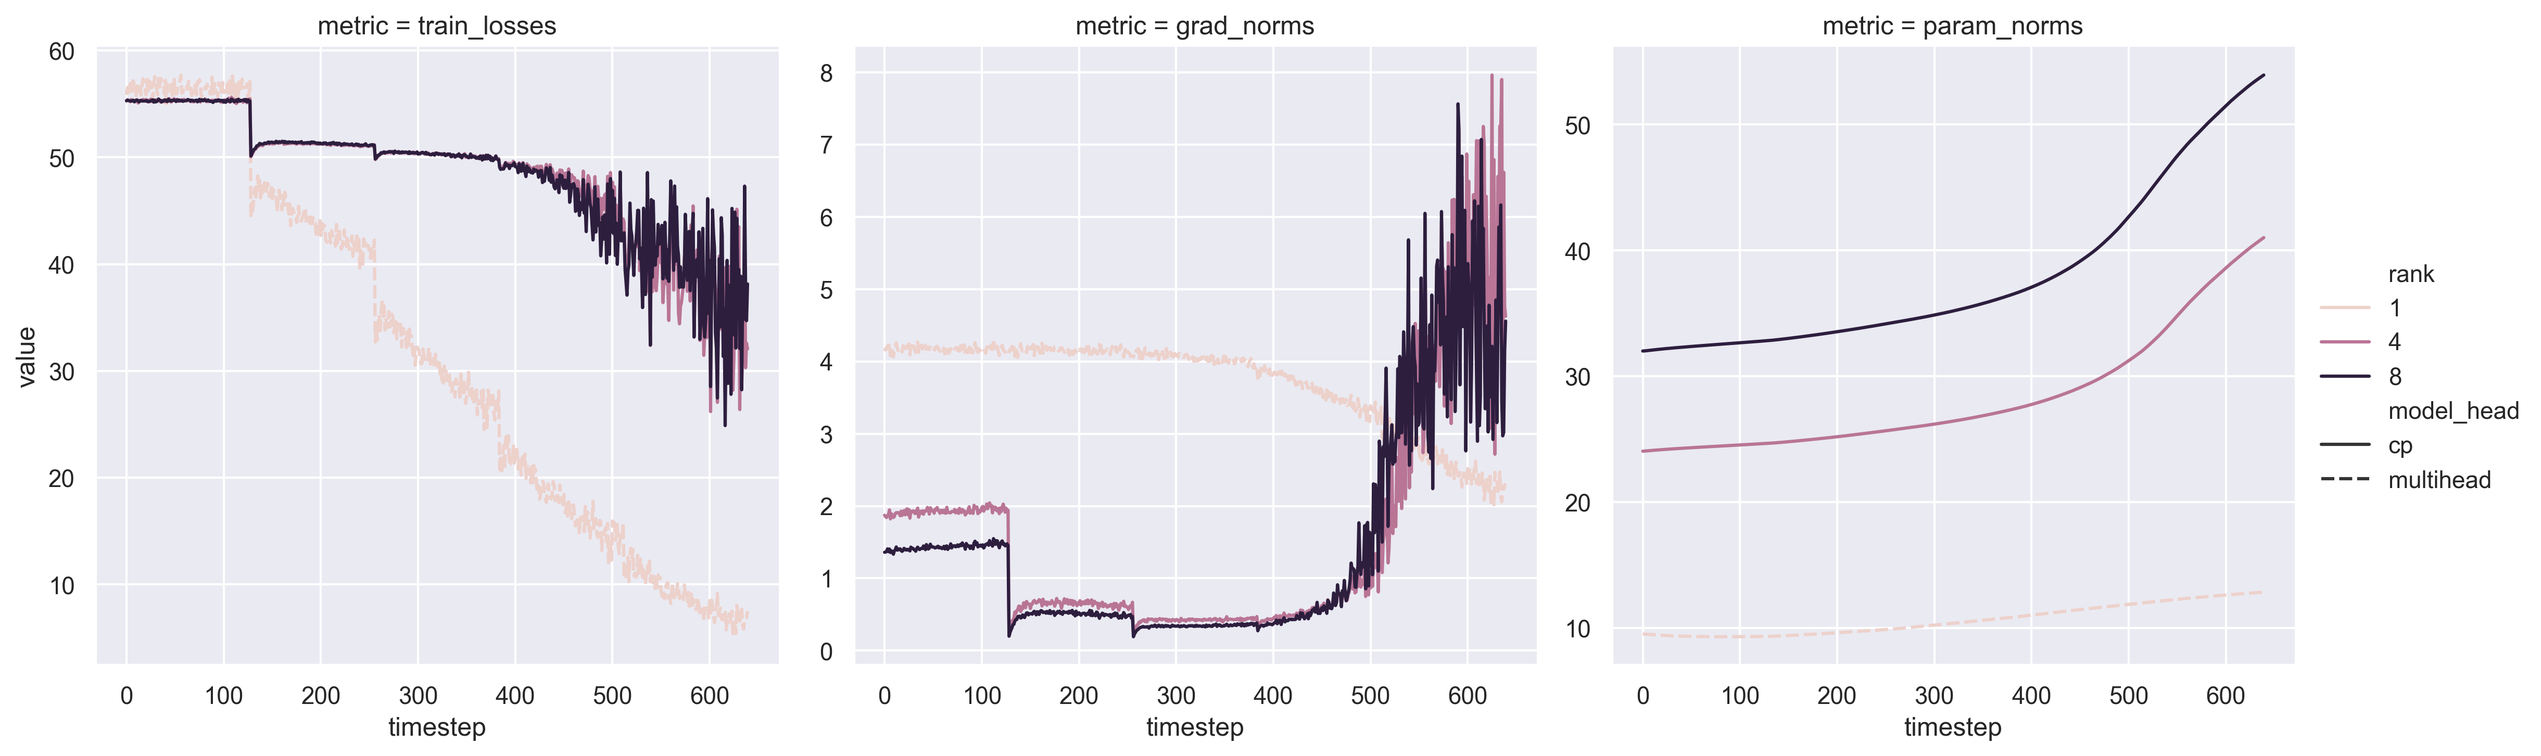
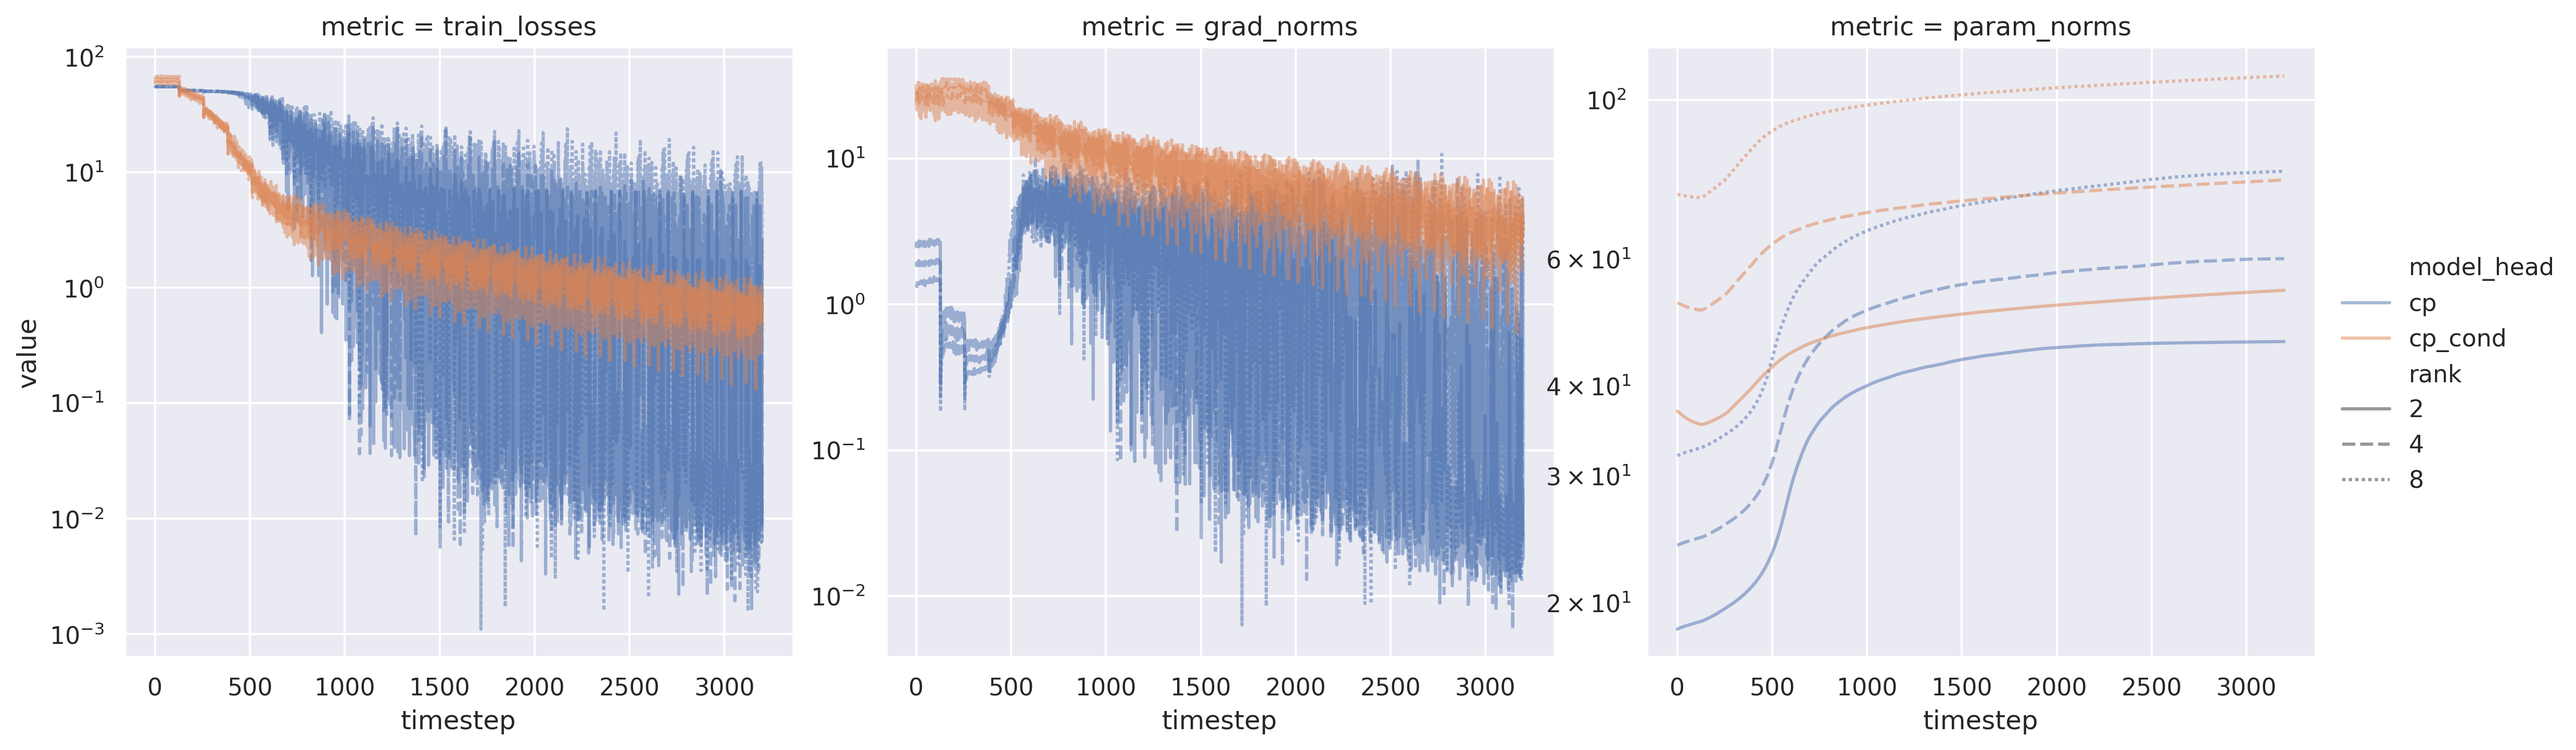
Add mhead stability plots

diff --git a/dataloaders/countdown.py b/dataloaders/countdown.py
@@ -1,0 +1,178 @@
+from dataloaders.base import AbstractDataset
+from datasets import load_dataset, DatasetDict, Dataset
+import random
+
+
+class Countdown(AbstractDataset):
+    templates = {
+        "0_shot": """[QUESTION]\n{question}\n[ANSWER]{answer}""",
+        "few_shot": (
+            "You are a helpful assistant that solves countdown problems. "
+            "The final answer should be preceeded by ####.\n"
+            "Here is an example:\n"
+            "[QUESTION]\n"
+            "Count down from 10 to 1. What is the 3rd number in this sequence?\n"
+            "[ANSWER]\n"
+            "Counting down from 10: 10, 9, 8, 7, 6, 5, 4, 3, 2, 1\n"
+            "The 3rd number in this countdown sequence is 8. #### 8\n"
+            "Now, answer the following question:\n"
+            "[QUESTION]\n"
+            "{question}\n"
+            "[ANSWER]\n"
+            "{answer}"
+        ),
+        "few_shot:standard": (
+            "You are a helpful assistant that solves countdown problems. "
+            "The final answer should be preceeded by ####.\n"
+            "Here is an example:\n"
+            "[QUESTION]\n"
+            "Count down from 10 to 1. What is the 3rd number in this sequence?\n"
+            "[ANSWER]\n"
+            "The 3rd number in the countdown sequence is 8. #### 8\n"
+            "Now, answer the following question:\n"
+            "[QUESTION]\n"
+            "{question}\n"
+            "[ANSWER]\n"
+            "{answer}"
+        ),
+    }
+
+    def __init__(self, *args, **kwargs):
+        super().__init__(*args, **kwargs)
+
+    def parse_answer(self, generation: str) -> float:
+        try:
+            return (
+                float(
+                    generation.split("####")[-1]
+                    .split(self.eos)[0]
+                    .strip()
+                    .split(" ")[0]
+                    .split("\n")[0]
+                )
+                if "####" in generation
+                else float("nan")
+            )
+        except Exception as e:
+            return float("nan")
+
+    def get_sample_prompt(self) -> str:
+        return self.templates[self.template_mode].format(
+            question="Count down from 15 to 1. What is the 5th number in this sequence?",
+            answer="",
+        )
+
+    def format_train_example(self, example):
+        return (
+            self.templates[self.template_mode].format(
+                question=example["question"],
+                answer=example["answer"],
+            )
+            + self.eos
+        )
+
+    def format_test_example(self, example):
+        return self.templates[self.template_mode].format(
+            question=example["question"],
+            answer="",
+        )
+
+    def format_test_label(self, example):
+        return self.parse_answer(example["answer"])
+
+    def _generate_countdown_problem(self, start_num, target_position):
+        """Generate a countdown problem with given start number and target position."""
+        if target_position > start_num:
+            return None, None
+
+        # Generate the countdown sequence
+        sequence = list(range(start_num, 0, -1))
+        target_number = sequence[target_position - 1]  # Convert to 0-indexed
+
+        question = f"Count down from {start_num} to 1. What is the {target_position}{self._get_ordinal_suffix(target_position)} number in this sequence?"
+        answer = f"Counting down from {start_num}: {', '.join(map(str, sequence))}\nThe {target_position}{self._get_ordinal_suffix(target_position)} number in this countdown sequence is {target_number}. #### {target_number}"
+
+        return question, answer
+
+    def _get_ordinal_suffix(self, n):
+        """Get the ordinal suffix for a number."""
+        if 10 <= n % 100 <= 20:
+            suffix = "th"
+        else:
+            suffix = {1: "st", 2: "nd", 3: "rd"}.get(n % 10, "th")
+        return suffix
+
+    def _generate_dataset_examples(self, num_examples, split="train"):
+        """Generate synthetic countdown problems."""
+        for i in range(num_examples):
+            # Vary difficulty based on split
+            if split == "train":
+                start_num = random.randint(5, 50)
+                target_position = random.randint(1, min(start_num, 10))
+            elif split == "eval":
+                start_num = random.randint(10, 30)
+                target_position = random.randint(1, min(start_num, 8))
+            else:  # test
+                start_num = random.randint(15, 40)
+                target_position = random.randint(1, min(start_num, 12))
+
+            question, answer = self._generate_countdown_problem(
+                start_num, target_position
+            )
+            if question and answer:
+                yield {
+                    "question": question,
+                    "answer": answer,
+                    "start_num": start_num,
+                    "target_position": target_position,
+                    "target_number": start_num - target_position + 1,
+                }
+
+    def load_raw_data(self):
+        # Generate synthetic countdown problems since reasoning-gym dataset might not be available
+        num_train = 5000
+        num_eval = 500
+        num_test = 500
+
+        # Create datasets using Dataset.from_generator pattern like STemp
+        base_datasets = {
+            "train": Dataset.from_generator(
+                lambda: self._generate_dataset_examples(num_train, "train")
+            ),
+            "eval": Dataset.from_generator(
+                lambda: self._generate_dataset_examples(num_eval, "eval")
+            ),
+        }
+        test_datasets = {
+            "test": Dataset.from_generator(
+                lambda: self._generate_dataset_examples(num_test, "test")
+            ),
+        }
+
+        for split in base_datasets:
+            base_datasets[split] = self._process_train_dataset(
+                base_datasets[split], self.tokenizer
+            )
+        for split in test_datasets:
+            test_datasets[split] = self._process_test_dataset(
+                test_datasets[split], self.tokenizer
+            )
+
+        return DatasetDict({**base_datasets, **test_datasets})
+
+
+if __name__ == "__main__":
+    from transformers import AutoTokenizer
+
+    tokenizer = AutoTokenizer.from_pretrained("gpt2")
+    tokenizer.pad_token = tokenizer.eos_token
+
+    countdown = Countdown(tokenizer, max_num_samples=100).load_data()
+    print(countdown)
+
+    # Print a sample from the dataset
+    print("Train example:")
+    print(tokenizer.decode(countdown["train"][0]["input_ids"]))
+
+    print("Test example:")
+    print(tokenizer.decode(countdown["test"][0]["input_ids"]))

diff --git a/scripts/plot_mhead_stability.py b/scripts/plot_mhead_stability.py
@@ -50,7 +50,7 @@ def main():
     p = argparse.ArgumentParser()
     p.add_argument("--batch_size", type=int, default=8)
     p.add_argument("--lr", type=float, default=5e-4)
-    p.add_argument("--epochs", type=int, default=5)
+    p.add_argument("--epochs", type=int, default=25)
     p.add_argument("--n_samples", type=int, default=1024)
     args = p.parse_args()
 
@@ -65,7 +65,7 @@ def main():
     # create experiment configs
     configs = []
     # add cp configs
-    for model_head, rank in itertools.product(["cp", "cp_cond"], range_exp(2, 8)):
+    for model_head, rank in itertools.product(["cp", "cp_cond"], range_exp(1, 4)):
         configs.append(
             {
                 "model_head": model_head,
@@ -77,14 +77,23 @@ def main():
             }
         )
 
-    # add multihead config
-    configs.append(
-        {
-            "model_head": "multihead",
-            "model_head_kwargs": {**model_hparams},
-            "rank": 1,
-        }
-    )
+    # # add multihead config
+    # configs.append(
+    #     {
+    #         "model_head": "multihead",
+    #         "model_head_kwargs": {**model_hparams},
+    #         "rank": 1,
+    #     }
+    # )
+
+    # # add dummy dist
+    # configs.append(
+    #     {
+    #         "model_head": "dummy",
+    #         "model_head_kwargs": {**model_hparams},
+    #         "rank": 1,
+    #     }
+    # )
 
     # create synthetic data
     train_ds = torch.utils.data.TensorDataset(
@@ -95,7 +104,7 @@ def main():
     )
     train_dl = torch.utils.data.DataLoader(train_ds, batch_size=args.batch_size)
 
-    for config in configs:
+    for config in tqdm(configs, desc="Computing stats"):
         train_stats = run_train(
             model=TJD_DISTS[config["model_head"]](
                 BaseDistConfig(**config["model_head_kwargs"])
@@ -124,16 +133,19 @@ def main():
         var_name="metric",  # new col → facet
         value_name="value",  # y‑axis
     )
-    sns.relplot(
+    g = sns.relplot(
         data=long,
         x="timestep",
         y="value",
-        hue="rank",
-        style="model_head",
+        hue="model_head",
+        style="rank",
         col="metric",  # facet by metric (use row='metric' if you prefer)
         kind="line",
         facet_kws=dict(sharey=False),  # separate y‑scales (optional)
+        alpha=0.5,
     )
+    for ax in g.axes.flat:
+        ax.set_yscale("log")  # or "log", "symlog", etc.
     plt.savefig("results/plots/mhead_stability.png", dpi=300, bbox_inches="tight")
 
 

diff --git a/tjdnet/distributions/dummy.py b/tjdnet/distributions/dummy.py
@@ -1,0 +1,35 @@
+from typing import Callable, List, Optional
+import torch
+import torch.nn as nn
+
+from tjdnet.distributions._base import AbstractDist, BaseDistFromLinearConfig
+from tjdnet.distributions._tjdist import BaseDistConfig
+
+
+class DummyDist(AbstractDist):
+    """Dummy distribution for testing."""
+
+    def __init__(self, config: BaseDistConfig):
+        super().__init__()
+        self.w_proj = nn.Linear(config.embedding_dim, config.vocab_size)
+
+    @classmethod
+    def from_pretrained(cls, linear: torch.nn.Linear, config: BaseDistFromLinearConfig):
+        raise NotImplementedError(
+            "from_linear method must be implemented in the subclass"
+        )
+
+    def sample(
+        self,
+        x: torch.Tensor,
+        sample_fn: Callable[[torch.Tensor], torch.Tensor],
+        horizon: Optional[int] = None,
+        return_logits: bool = False,
+        **kwargs
+    ):
+        raise NotImplementedError("Sample not implemented for dummy distribution")
+
+    def forward(self, x: torch.Tensor, y: torch.Tensor):
+        logits = self.w_proj(x)  # (B, V)
+        loss = nn.CrossEntropyLoss(reduction="none")(logits, y[:, 0])  # (B,)
+        return loss.mean()

diff --git a/tjdnet/distributions/__init__.py b/tjdnet/distributions/__init__.py
@@ -2,6 +2,7 @@
 from typing import Dict, Type
 from tjdnet.distributions._base import AbstractDist
 from tjdnet.distributions.cp_rmoe import CPRMoEDist
+from tjdnet.distributions.dummy import DummyDist
 from tjdnet.distributions.stp import STPDist
 from tjdnet.distributions.cp import CPDist
 from tjdnet.distributions.cp_cond import CPCond
@@ -18,4 +19,5 @@ TJD_DISTS: Dict[str, Type[AbstractDist]] = {
     "cp_rmoe": CPRMoEDist,
     "cpme": CPME,
     "multihead": MultiHeadDist,
+    "dummy": DummyDist,
 }

diff --git a/dataloaders/__init__.py b/dataloaders/__init__.py
@@ -1,5 +1,6 @@
 from dataloaders.aqua import AQUA
 from dataloaders.base import AbstractDataset
+from dataloaders.countdown import Countdown
 from dataloaders.csqa import CSQA
 from dataloaders.gms8k import GSM8k
 from dataloaders.reddit import Reddit
@@ -19,5 +20,6 @@ DATASETS: dict[str, type[AbstractDataset]] = {
     "wikitext2": WikiText2,
     "sst2": SST2,
     "reddit": Reddit,
+    "countdown": Countdown,
     # Add more datasets here as needed
 }

diff --git a/tjdnet/distributions/_tpnet.py b/tjdnet/distributions/_tpnet.py
@@ -24,7 +24,7 @@ class TensorParamNetConfig:
     out_dim_decoder: int = 1
     positivity_func: Literal[
         "sq", "abs", "exp", "safe_exp", "sigmoid", "none", "relu", "leaky_relu"
-    ] = "exp"
+    ] = "sigmoid"
     use_decoder: bool = True
     use_bias_encoder: bool = True
     use_bias_decoder: bool = True

diff --git a/scripts/plot_dataset_spectrum.py b/scripts/plot_dataset_spectrum.py
@@ -363,6 +363,7 @@ def main():
     # deepseek-ai/DeepSeek-R1
     # deepseek-ai/DeepSeek-R1-0528-Qwen3-8B
     # distilbert/distilgpt2
+    # Qwen/Qwen3-235B-A22B
     parser.add_argument(
         "--device", type=str, default="cuda" if torch.cuda.is_available() else "cpu"
     )

diff --git a/tjdnet/distributions/cp.py b/tjdnet/distributions/cp.py
@@ -19,8 +19,6 @@ class CPDist(TJDist):
         """
         super().__init__(config)
 
-        # TopK gating of CP rank
-
     # @classmethod
     # def from_pretrained(
     #     cls, linear: torch.nn.Linear, config: BaseDistFromLinearConfig, **kwargs
